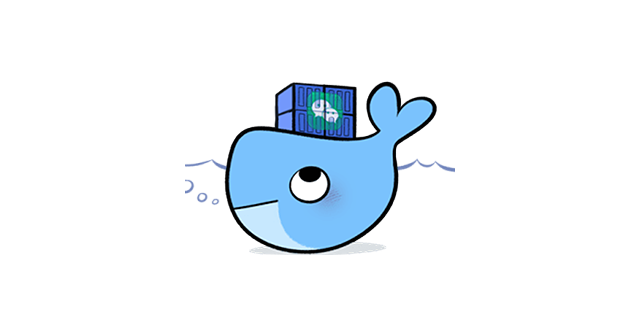
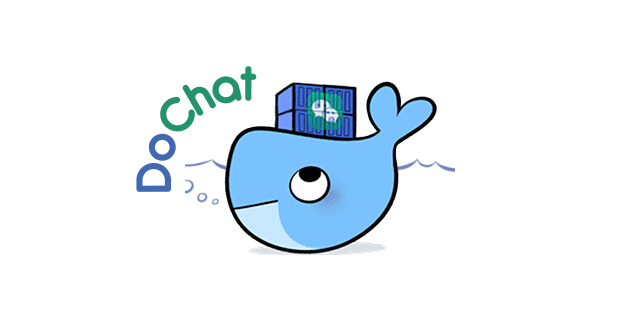
ps-ed by Ruoxin Song

Changed region(s): [[0.1875, 0.1875, 0.4062, 0.625]]

diff --git a/README.md b/README.md
@@ -4,7 +4,7 @@
 
 ![Docker Wechat](https://huan.github.io/docker-wechat/images/docker-wechat.png)
 
-> Image Credit: [Docker 101](https://www.docker.com/blog/docker-101-introduction-docker-webinar-recap/) + [Icon Finder](https://www.iconfinder.com/icons/4539886/application_chat_communication_wechat_wechat_logo_icon)
+> Image Credit: [Docker 101](https://www.docker.com/blog/docker-101-introduction-docker-webinar-recap/) + [Icon Finder](https://www.iconfinder.com/icons/4539886/application_chat_communication_wechat_wechat_logo_icon), and Ps-ed by Ruoxin Song
 
 ![Powered Ubuntu](https://img.shields.io/badge/WeChat-Ubuntu-orange)
 
